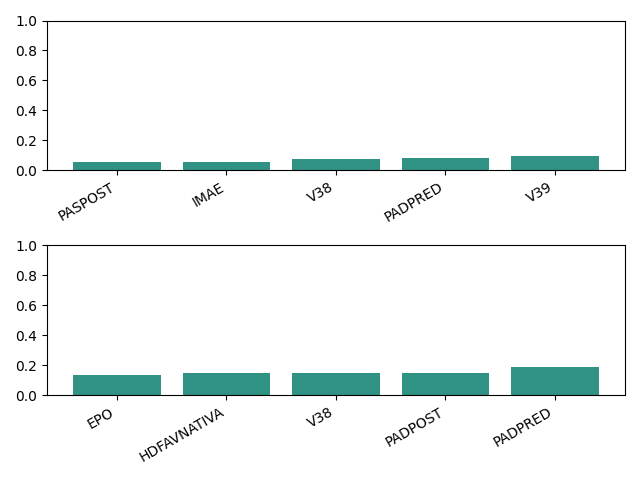
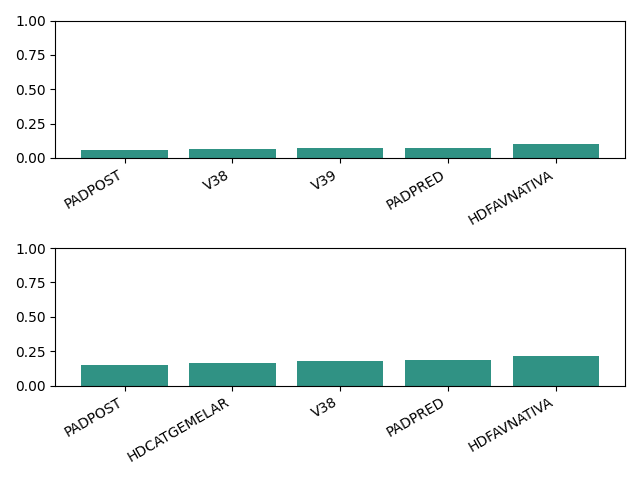
Before move Normalization outside FSELECTION

diff --git a/System/Modules/Mbuilding.py b/System/Modules/Mbuilding.py
@@ -13,8 +13,7 @@ from alive_progress import alive_bar
 import time
 
 
-def model_shake(DATA, TARGET_COLUMN, TARGET_TY, Fast = True):
-
+def model_shake(DATA, X_TEST, Y_TEST, TARGET_COLUMN, TARGET_TY, Fast = True):
     PROGRESS_BAR = True
 
     start_time = time.time()
@@ -24,7 +23,7 @@ def model_shake(DATA, TARGET_COLUMN, TARGET_TY, Fast = True):
     FEATURE_N = 5 #can test to change it or make it auto to find the best N
     model_return = pd.DataFrame(columns = ['Target column', 'Target type', 'Model name', 
                                            'Normalization method', 'Feature selection method', 
-                                           'Features used', 'Number of splits', 'Cross-validation ID', 
+                                           'Features used', 'importances', 'Number of splits', 'Cross-validation ID', 
                                            'Confusion matrix', 'True Positive Rate', 'False Positive Rate', 'Recall', 
                                            'F1 score', 'AUC', 'Score', 'Brier score loss'])
     FS_return = pd.DataFrame(columns = ['Model name', 'Normalization method', 'Feature selection method', 
@@ -47,7 +46,7 @@ def model_shake(DATA, TARGET_COLUMN, TARGET_TY, Fast = True):
         # model_stack = ['LinearRegression', 'RandomForestRegressor','QuantileRegressor', 'GradientBoostingRegressor', 'PassiveAggressiveRegressor', 'LassoLars', 'KNeighborsRegressor'] 
         model_stack = ['LinearRegression', 'SupportVectorMachines', 'RandomForestRegressor','QuantileRegressor', 'GradientBoostingRegressor', 'PassiveAggressiveRegressor', 'LassoLars', 'KNeighborsRegressor'] 
 
-    NORM_FLAGS = np.array([0]) #dont use normalization just for know
+    # NORM_FLAGS = np.array([0]) #dont use normalization just for know
 
     Feature_methods = ['Intrinsic method','Filter method','Wrapper method']
     Normalization_methods = ['No', 'Min-Max', 'Z-score']
@@ -88,7 +87,7 @@ def model_shake(DATA, TARGET_COLUMN, TARGET_TY, Fast = True):
     ### Step 2: Cross Validation (FIRST STEP)###   
     samples_of_valid = int(len(X)/number_of_splits)
     for shift_idx in range(number_of_splits): 
-        print('\n shift_idx '+str(shift_idx))
+        print('\nshift_idx '+str(shift_idx))
         X_train, X_valid, y_train, y_valid = train_test_split(X, y, test_size=samples_of_valid, random_state=0, shuffle = False)
         if TARGET_TY == 'classes' or TARGET_TY == 'boolean': #quick solve for HDwithCM, solve in general!!!
             y_train = y_train.astype(int)
@@ -99,7 +98,7 @@ def model_shake(DATA, TARGET_COLUMN, TARGET_TY, Fast = True):
 
         ### Step 1: Feature Engeeniring ###
         for F_FLAG in FEATURE_FLAGS:
-            print('F_flag '+str(F_FLAG))
+            print('    F_flag '+str(Feature_methods[F_FLAG]))
             X_trainR, current_Features, importances, indexes4valid = Fselection.F_selector(pd.DataFrame(X_train, columns = columns_X), 
                                                 pd.DataFrame(y_train, columns = [TARGET_COLUMN]), 
                                                 N_features=FEATURE_N, 
@@ -108,12 +107,13 @@ def model_shake(DATA, TARGET_COLUMN, TARGET_TY, Fast = True):
 
             ### Step 3: Model selection ###
             for model_name in model_stack:
-                print('model '+str(model_name))
+                print('     model '+str(model_name))
 
                 ### Step 4: NORMALIZATION ###
                 for N_FLAG in NORM_FLAGS:
-                    print('normalization '+str(N_FLAG))
-                    # DprepNcleaning.data_normF(X_trainR, FLAG=N_FLAG) #arreglar 
+                    print('         normalization '+str(N_FLAG))
+                    X_trainR = DprepNcleaning.data_normF(X_trainR, FLAG=N_FLAG) #arreglar 
+                    X_validR = DprepNcleaning.data_normF(X_validR, FLAG=N_FLAG) #arreglar 
 
                     ### Step 5: Model Building 
                     model = auxiliary_fun.model_dashboard(model_name)
@@ -174,27 +174,30 @@ def model_shake(DATA, TARGET_COLUMN, TARGET_TY, Fast = True):
             Feat_best_set.loc[len(Feat_best_set.index)] = [model_nm, feature_nm, best_set, best_set_importances, best_set_score] 
             
 
-
+    print('\n\n\n END OF FIRST CV WITH FS')
+    breakpoint()
 ##########################################################################333333
 
     ### Step 2: Cross Validation (SECOND STEP)###   
     samples_of_valid = int(len(X)/number_of_splits)
     for shift_idx in range(number_of_splits): 
-        print('\n shift_idx '+str(shift_idx))
-        X_train, X_valid, y_train, y_valid = train_test_split(X, y, test_size=samples_of_valid, random_state=0, shuffle = False)
+        print('\nshift_idx '+str(shift_idx))
+        # X_drop and y_drop are not used <we use TEST>
+        X_train, X_drop, y_train, y_drop = train_test_split(X, y, test_size=samples_of_valid, random_state=0, shuffle = False)
         if TARGET_TY == 'classes' or TARGET_TY == 'boolean': #quick solve for HDwithCM, solve in general!!!
             y_train = y_train.astype(int)
-            y_valid = y_valid.astype(int)
+            Y_TEST = Y_TEST.astype(int)
         #shift data
+        print(X)
         X = np.roll(X, samples_of_valid, axis=0)
         y = np.roll(y, samples_of_valid, axis=0)
 
         ### Step 1: Feature Engeeniring ###
-        IMPORTANCES_OUT = []
-        CURRENT_FEATURES_OUT = []
+        # IMPORTANCES_OUT = [] #al final solo queda para el ultimo cv
+        # CURRENT_FEATURES_OUT = []
         ALL_TRAINED_MODELS = []
         for F_FLAG in FEATURE_FLAGS:
-            print('F_flag '+str(F_FLAG))
+            print('    F_flag '+str(Feature_methods[F_FLAG]))
             # breakpoint()
             # X_trainR, current_Features, importances, indexes4valid = Fselection.F_selector(pd.DataFrame(X_train, columns = columns_X), 
             #                                     pd.DataFrame(y_train, columns = [TARGET_COLUMN]), 
@@ -206,23 +209,25 @@ def model_shake(DATA, TARGET_COLUMN, TARGET_TY, Fast = True):
 
             ### Step 3: Model selection ###
             for model_name in model_stack:
-                print('model '+str(model_name))
+                print('     model '+str(model_name))
 
                 ### Step 4: NORMALIZATION ###
                 for N_FLAG in NORM_FLAGS:
-                    print('normalization '+str(N_FLAG))
+                    print('         normalization '+str(N_FLAG))
                     # DprepNcleaning.data_normF(X_trainR, FLAG=N_FLAG) #arreglar 
                     current_Features = Feat_best_set.query('`Model` == @model_name and `Feature method` == @Feature_methods[@F_FLAG]')['Best set'].values.tolist()[0]
                     importances = Feat_best_set.query('`Model` == @model_name and `Feature method` == @Feature_methods[@N_FLAG]')['Importances'].values[0]
+                    
+                    # IMPORTANCES_OUT.append(importances)
+                    # CURRENT_FEATURES_OUT.append(current_Features)
 
                     indexes4X = []
                     for idxCF in range(len(current_Features)):
                         indexes4X.append(DATA.loc[:, DATA.columns != TARGET_COLUMN].columns.get_loc(current_Features[idxCF]))
                     X_trainR = X_train[:, indexes4X]
-                    X_validR = X_valid[:, indexes4X]
+                    X_testR = X_TEST[:, indexes4X]
                     
                     
-
                     operation_counter = operation_counter+1
                     if PROGRESS_BAR:
                         print('Progresion in training: '+str( round((operation_counter/number_operations)*100) )+'%, the time is: ', end='')  
@@ -238,7 +243,7 @@ def model_shake(DATA, TARGET_COLUMN, TARGET_TY, Fast = True):
                         # breakpoint()
                     model.fit(X_trainR, y_train)
                     ALL_TRAINED_MODELS.append(model)
-                    prediction = model.predict(X_validR)
+                    prediction = model.predict(X_testR)
                     
                     # define values in case we dont estimeate them (continues case 4 example)
                     accurecy = np.nan
@@ -253,7 +258,7 @@ def model_shake(DATA, TARGET_COLUMN, TARGET_TY, Fast = True):
 
                     if TARGET_TY == 'boolean' or TARGET_TY == 'classes':
                         classes_of_target = np.unique(y)
-                        CoMtx = confusion_matrix(y_valid, prediction, labels=list(classes_of_target))  #ADD LABELS TO MATRIX (MAKE IT DF)
+                        CoMtx = confusion_matrix(Y_TEST, prediction, labels=list(classes_of_target))  #ADD LABELS TO MATRIX (MAKE IT DF)
                         accurecy = np.sum(np.diag(CoMtx))/len(prediction)
                         accurecy = accurecy*100
                         if TARGET_TY == 'boolean':
@@ -266,25 +271,38 @@ def model_shake(DATA, TARGET_COLUMN, TARGET_TY, Fast = True):
                             Specifity = (1-Specifity)*100
                             F1 = 2*(accurecy*Recall)/((accurecy+Recall))
                             # breakpoint()
-                            metrics_result = auxiliary_fun.computemetrics(model, X_validR, y_valid)
+                            metrics_result = auxiliary_fun.computemetrics(model, X_testR, Y_TEST)
                             tpr = metrics_result['roc_curve'][1]
                             fpr = metrics_result['roc_curve'][0]
                             auc = metrics_result['roc_curve'][2]
 
                             ### brier score loss ###
-                            prediction_proba = model.predict_proba(X_validR)
+                            prediction_proba = model.predict_proba(X_testR)
                             prediction_proba_positive_clase = prediction_proba[:,1] 
-                            brier_score = brier_score_loss(y_valid, prediction_proba_positive_clase)
+                            brier_score = brier_score_loss(Y_TEST, prediction_proba_positive_clase)
                     model_return.loc[len(model_return.index)] = [TARGET_COLUMN, TARGET_TY, model_name, 
-                                                                 Normalization_methods[N_FLAG], Feature_methods[F_FLAG], current_Features, 
+                                                                 Normalization_methods[N_FLAG], Feature_methods[F_FLAG], current_Features, importances, 
                                                                  number_of_splits, shift_idx, CoMtx, 
-                                                                 tpr, fpr, Recall, F1, auc, model.score(X_validR, y_valid), brier_score] 
-                    breakpoint()
+                                                                 tpr, fpr, Recall, F1, auc, model.score(X_testR, Y_TEST), brier_score] 
+        # breakpoint()
 
 
 
 
+    scores_models = pd.DataFrame(columns = ['Model', 'Feature method','Feature used', 'Importances', 'Score', 'Standard deviation' ])
 
+    for model_nm in model_stack:
+        for feature_nm in Feature_methods[0:len(FEATURE_FLAGS)]:
+            # model_n_score = FS_return.query('`Model name` == @model_nm and `Feature selection method` == @feature_nm')[['Features used', 'importances', 'Score', 'Cross-validation ID']]
+
+            feat_used = model_return.query('`Model name` == @model_nm and `Feature selection method` == @feature_nm')['Features used'].to_list()[0]
+            imp_used = model_return.query('`Model name` == @model_nm and `Feature selection method` == @feature_nm')['importances'].to_list()[0]
+            mean_val = model_return.query('`Model name` == @model_nm and `Feature selection method` == @feature_nm')['Score'].mean()
+            std_val = model_return.query('`Model name` == @model_nm and `Feature selection method` == @feature_nm')['Score'].std()
+            
+            scores_models.loc[len(scores_models.index)] = [model_nm, feature_nm, feat_used, imp_used, mean_val, std_val] 
+            # breakpoint()
+    breakpoint()
 
 ##########################################################################
 
@@ -301,10 +319,6 @@ def model_shake(DATA, TARGET_COLUMN, TARGET_TY, Fast = True):
 
 
 
-
-
-
-    breakpoint()
     
 
     feature_data = pd.DataFrame([]) 

diff --git a/System/Modules/DprepNcleaning.py b/System/Modules/DprepNcleaning.py
@@ -2,6 +2,7 @@ from System.Modules import eda
 from sklearn.preprocessing import MinMaxScaler
 from sklearn.preprocessing import StandardScaler
 from termcolor import colored
+import pandas as pd
 
 
 def data_cleaning(data, min_porcentage_col = 10, min_porcentage_row = 0):
@@ -35,8 +36,8 @@ def data_normF(data, FLAG=1):
     
 
     
-    breakpoint()
-    data_norm = data
+    # breakpoint()
+    # data_norm = data
     ### BYPASS NORMALIZATION ###
     if FLAG == 0:
         data_norm = data
@@ -45,16 +46,20 @@ def data_normF(data, FLAG=1):
         if FLAG == 1:  
             scaler = MinMaxScaler()
             scaler.fit(data)
-            X_norm_arr = scaler.transform(data)
+            data_norm = scaler.transform(data)
         ### Z-score normalization ###
         if FLAG == 2:
             scaler = StandardScaler()
             scaler.fit(data)
-            X_norm_arr = scaler.transform(data) 
-        #remove not norm column and add a norm one
-        for idx,col in enumerate(data.columns):
-            data_norm = data_norm.drop(col, axis=1)
-            data_norm.insert(len(data.columns)-1, col, X_norm_arr[:,idx], True)
+            data_norm = scaler.transform(data) 
+        # #remove not norm column and add a norm one
+        # for idx,col in enumerate(data.columns):
+        #     data_norm = data_norm.drop(col, axis=1)
+        #     data_norm.insert(len(data.columns)-1, col, X_norm_arr[:,idx], True)
+        
     
+    print(pd.DataFrame(data).describe())
+    print(pd.DataFrame(data_norm).describe())
+    breakpoint()
     return data_norm
 

diff --git a/System/Workflow.py b/System/Workflow.py
@@ -46,7 +46,7 @@ def dyn_model_selection(data = pd.DataFrame(), file_selected=-1, column_selected
     X_data, X_test, y_data, y_test = train_test_split(X, y, test_size=0.1, shuffle = True)
     data = pd.concat([y_data, X_data], axis=1)
 
-    model_info, trained_models, fig1, fig2, fig3 = Mbuilding.model_shake(DATA=data, TARGET_COLUMN=target_column, TARGET_TY=target_type, Fast = FAST)
+    model_info, trained_models, fig1, fig2, fig3 = Mbuilding.model_shake(DATA=data, X_TEST=X_test.to_numpy(),  Y_TEST=y_test.to_numpy(), TARGET_COLUMN=target_column, TARGET_TY=target_type, Fast = FAST)
     model_info = model_info.rename(columns={'Normalization method': 'NM', 'Feature selection method': 'FSM'})
     sns.lmplot(
         data=model_info, x="Cross-validation ID", y="Score", row="NM", col="FSM", hue='Model name',
